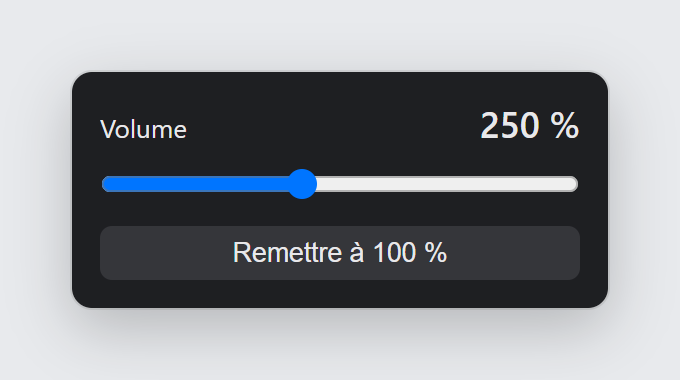
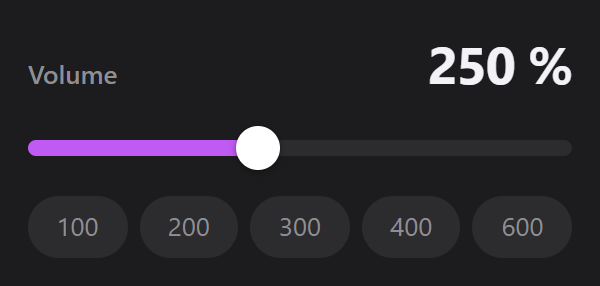
Restyle the popup with a custom slider and level buttons
The slider is drawn to match the other extensions, the value is shown large, and five buttons jump to the usual levels. Light and dark follow the system.

diff --git a/popup.html b/popup.html
@@ -3,34 +3,98 @@
 <head>
   <meta charset="utf-8">
   <style>
+    :root {
+      color-scheme: light dark;
+      --bg: #ffffff;
+      --field: #f2f2f7;
+      --text: #1c1c1e;
+      --muted: #8e8e93;
+      --accent: #af52de;
+      --accent-text: #ffffff;
+      --warning: #c26a00;
+    }
+    @media (prefers-color-scheme: dark) {
+      :root {
+        --bg: #1c1c1e;
+        --field: #2c2c2e;
+        --text: #f2f2f7;
+        --accent: #bf5af2;
+        --warning: #ffb340;
+      }
+    }
+    * { box-sizing: border-box; }
     body {
-      width: 240px;
+      width: 300px;
       margin: 0;
       padding: 14px;
-      font: 13px system-ui, sans-serif;
-      background: #1e1f22;
-      color: #e8e8ea;
+      background: var(--bg);
+      color: var(--text);
+      font: 13px/1.4 system-ui, -apple-system, "Segoe UI", sans-serif;
     }
     header {
       display: flex;
       justify-content: space-between;
       align-items: baseline;
-      margin-bottom: 10px;
+      margin-bottom: 12px;
     }
-    #value { font-size: 18px; font-weight: 600; }
-    input[type="range"] { width: 100%; margin: 0; }
-    button {
-      margin-top: 10px;
+    header span:first-child { color: var(--muted); font-weight: 600; }
+    #value {
+      font-size: 26px;
+      font-weight: 700;
+      font-variant-numeric: tabular-nums;
+      letter-spacing: -0.02em;
+    }
+    /* Le curseur : une piste arrondie remplie jusqu'à la valeur, un bouton blanc. */
+    input[type="range"] {
+      display: block;
       width: 100%;
-      padding: 6px;
+      height: 24px;
+      margin: 0;
+      appearance: none;
+      background: none;
+      cursor: pointer;
+      outline: 0;
+    }
+    input[type="range"]::-webkit-slider-runnable-track {
+      height: 8px;
+      border-radius: 999px;
+      background: linear-gradient(to right, var(--accent) var(--fill, 0%), var(--field) var(--fill, 0%));
+    }
+    input[type="range"]::-webkit-slider-thumb {
+      appearance: none;
+      width: 22px;
+      height: 22px;
+      margin-top: -7px;
+      border-radius: 50%;
+      background: #ffffff;
+      box-shadow: 0 1px 4px rgba(0, 0, 0, 0.35), 0 0 0 0.5px rgba(0, 0, 0, 0.12);
+    }
+    input[type="range"]:focus-visible::-webkit-slider-thumb {
+      box-shadow: 0 1px 4px rgba(0, 0, 0, 0.35), 0 0 0 3px color-mix(in srgb, var(--accent) 45%, transparent);
+    }
+    /* Les niveaux courants, en un clic. */
+    #presets {
+      display: flex;
+      gap: 6px;
+      margin-top: 12px;
+    }
+    #presets button {
+      flex: 1;
+      padding: 6px 0;
       border: 0;
-      border-radius: 6px;
-      background: #35363a;
-      color: inherit;
+      border-radius: 999px;
+      background: var(--field);
+      color: var(--muted);
+      font: inherit;
+      font-variant-numeric: tabular-nums;
       cursor: pointer;
     }
-    button:hover { background: #44454a; }
-    #status { margin: 8px 0 0; color: #f0b360; font-size: 12px; }
+    #presets button[aria-pressed="true"] {
+      background: color-mix(in srgb, var(--accent) 22%, var(--field));
+      color: var(--text);
+      font-weight: 600;
+    }
+    #status { margin: 10px 2px 0; color: var(--warning); font-size: 12px; }
     #status:empty { display: none; }
   </style>
 </head>
@@ -39,8 +103,14 @@
     <span>Volume</span>
     <span id="value">100 %</span>
   </header>
-  <input id="gain" type="range" min="0" max="600" step="10" value="100">
-  <button id="reset">Remettre à 100 %</button>
+  <input id="gain" type="range" min="0" max="600" step="10" value="100" aria-label="Volume">
+  <div id="presets" role="group" aria-label="Niveaux">
+    <button type="button" data-value="100">100</button>
+    <button type="button" data-value="200">200</button>
+    <button type="button" data-value="300">300</button>
+    <button type="button" data-value="400">400</button>
+    <button type="button" data-value="600">600</button>
+  </div>
   <p id="status"></p>
   <script src="popup.js"></script>
 </body>

diff --git a/popup.js b/popup.js
@@ -1,6 +1,7 @@
 const slider = document.getElementById('gain');
 const label = document.getElementById('value');
 const status = document.getElementById('status');
+const presets = document.getElementById('presets');
 const RELOAD_HINT = 'Recharge la page pour activer le boost.';
 
 async function activeTabId() {
@@ -10,7 +11,10 @@ async function activeTabId() {
 
 function show(percent) {
   slider.value = percent;
+  // La piste se remplit jusqu'au bouton.
+  slider.style.setProperty('--fill', `${(percent / Number(slider.max)) * 100}%`);
   label.textContent = `${percent} %`;
+  for (const button of presets.children) button.setAttribute('aria-pressed', String(Number(button.dataset.value) === percent));
 }
 
 async function setGain(percent) {
@@ -25,7 +29,12 @@ async function setGain(percent) {
 }
 
 slider.addEventListener('input', () => setGain(Number(slider.value)));
-document.getElementById('reset').addEventListener('click', () => setGain(100));
+presets.addEventListener('click', (event) => {
+  const button = event.target.closest('button[data-value]');
+  if (button) setGain(Number(button.dataset.value));
+});
+
+show(100);
 
 (async () => {
   try {

diff --git a/README.md b/README.md
@@ -4,13 +4,13 @@
 
 A Chrome extension that makes quiet videos louder. A slider in the toolbar raises the volume of the current tab up to 600 %, and fullscreen keeps working.
 
-<img src="screenshots/popup.png" width="340" alt="The volume slider">
+<img src="screenshots/popup.png" width="300" alt="The volume slider">
 
 ## What it does
 
 - **Up to 600 %.** Drag the slider to amplify every video and audio player on the page, including players inside frames.
 - **Fullscreen keeps working.** The boost is applied to the page's own sound, so video players behave as usual.
-- **One click back to normal.** The button under the slider resets the volume to 100 %.
+- **One click for the usual levels.** The buttons under the slider jump to 100, 200, 300, 400 or 600 %; 100 is back to normal.
 - **Leaves pages alone until you use it.** Nothing is changed on a page before you move the slider.
 
 The interface is in French.
